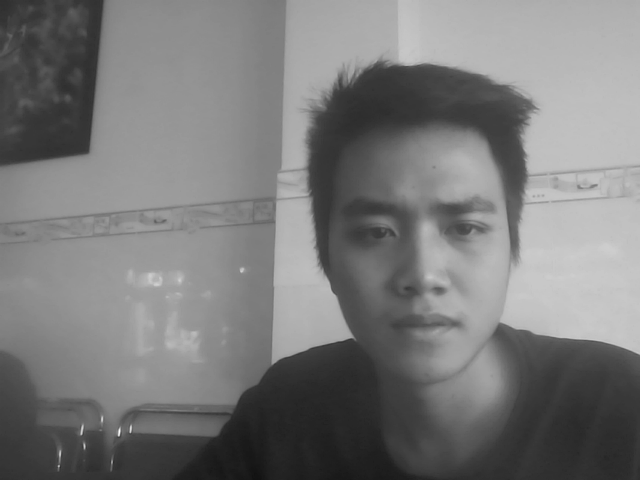
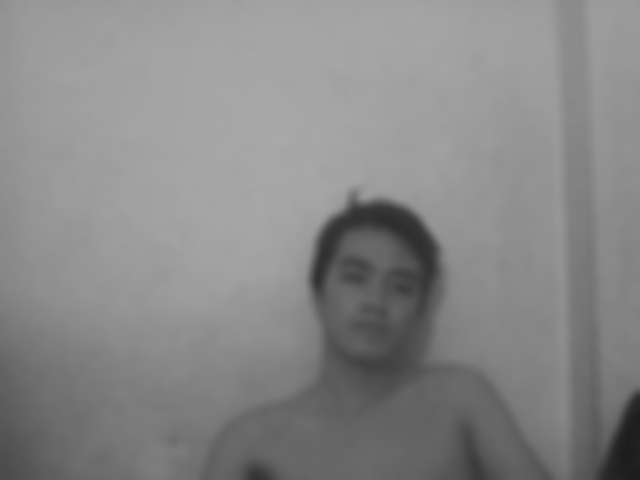
Merge 2 head

diff --git a/main.py b/main.py
@@ -1,8 +1,11 @@
+import scipy.ndimage as sp
 import cv2 
 from skimage.metrics import structural_similarity as ssim
 from sklearn.metrics import mean_squared_error
 import matplotlib.pyplot as plt
 import numpy as np
+
+cameraId = 0
 
 def capture(image):
     cv2.imshow("Captured image", image)
@@ -15,16 +18,30 @@ def capture(image):
 def compare(captureImg, image):    #image1 is the captured image and image2 is the image to be compared with
     ssim_rs = ssim(captureImg, image)
     mse_rs = mean_squared_error(captureImg, image)
+
     print("SSIM: {}, MSE: {}".format(ssim_rs, mse_rs))
 
+def gauss(size, stddev, k):
+    ker = np.zeros((size, size))
+    mid = (size - 1)//2
+
+    for i in range(size):
+        for j in range(size):
+            r = np.sqrt((i - mid)**2 + (j - mid)**2)
+            ker[i][j] = k*np.exp((-r**2)/(2*(stddev**2)))
+    ker = ker/np.sum(ker)
+    return ker
 
 def main():
-    vid = cv2.VideoCapture(1)
+    vid = cv2.VideoCapture(cameraId)
     capturedFlag = False
     captureImg = None
+    gaussKer = gauss(11, 25, 1)
     while True:
         _, image = vid.read()
         image = cv2.cvtColor(image, cv2.COLOR_BGR2GRAY)
+        image = sp.convolve(image, gaussKer)
+        image = np.array(image, dtype = 'uint8')
         cv2.imshow("Video Handler", image)
         cv2.moveWindow("Video Handler", 0, 0)
         if (cv2.waitKey(1) & 0xFF) == ord(' '):
